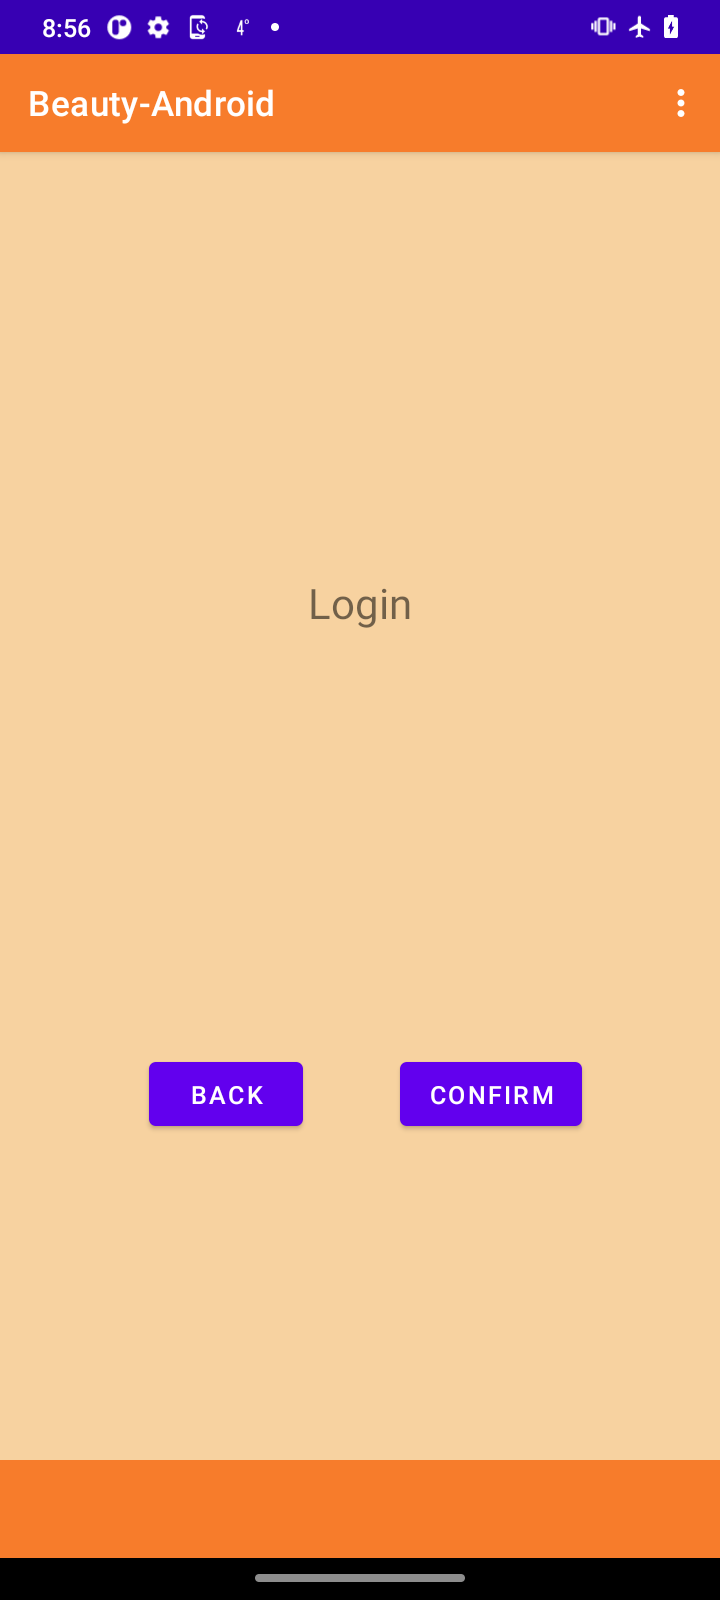
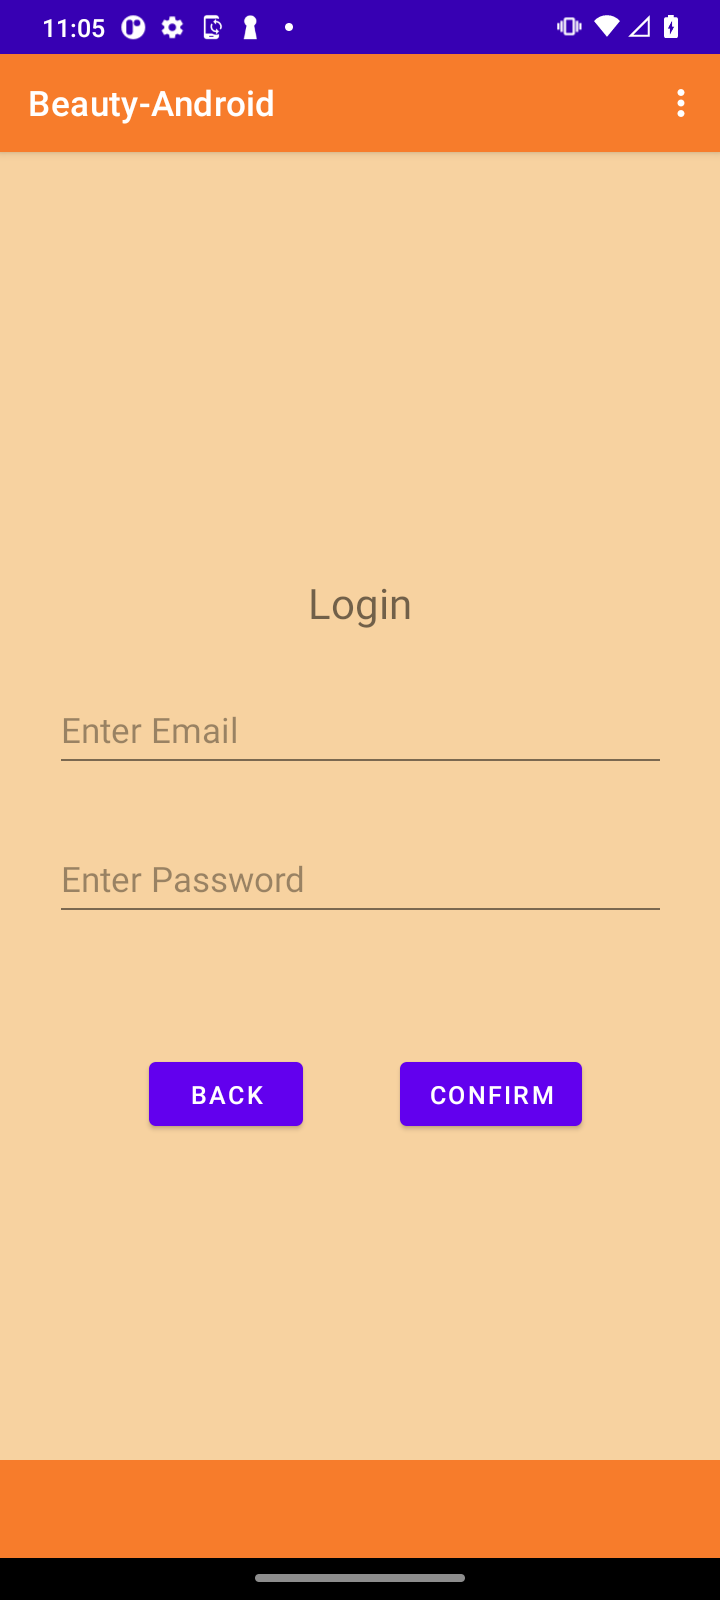
Registration screen design completed
User infos written to Firestore database. UsefInfo class deleted as not used anymore. Screenshots updated

diff --git a/app/src/main/java/com/example/beautyandroid/FragmentRegister.java b/app/src/main/java/com/example/beautyandroid/FragmentRegister.java
@@ -1,3 +1,21 @@
+//
+//  FragmentRegister.java
+//
+//  Created by Mathieu Delehaye on 1/12/2022.
+//
+//  BeautyAndroid: An Android app to order and recycle cosmetics.
+//
+//  Copyright © 2022 Mathieu Delehaye. All rights reserved.
+//
+//
+//  This program is free software: you can redistribute it and/or modify it under the terms of the GNU Affero General Public License as published by
+//  the Free Software Foundation, either version 3 of the License, or (at your option) any later version.
+//
+//  This program is distributed in the hope that it will be useful, but WITHOUT ANY WARRANTY; without even the implied warranty of MERCHANTABILITY or FITNESS
+//  FOR A PARTICULAR PURPOSE. See the GNU Affero General Public License for more details.
+//
+//  You should have received a copy of the GNU Affero General Public License along with this program. If not, see <https://www.gnu.org/licenses/>.
+
 package com.beautyorder.androidclient;
 
 import android.os.Bundle;
@@ -14,16 +32,31 @@ import androidx.fragment.app.Fragment;
 import androidx.navigation.fragment.NavHostFragment;
 import com.beautyorder.androidclient.databinding.FragmentRegisterBinding;
 import com.google.android.gms.tasks.OnCompleteListener;
+import com.google.android.gms.tasks.OnFailureListener;
+import com.google.android.gms.tasks.OnSuccessListener;
 import com.google.android.gms.tasks.Task;
 import com.google.firebase.auth.AuthResult;
 import com.google.firebase.auth.FirebaseAuth;
+import com.google.firebase.auth.FirebaseUser;
+import com.google.firebase.firestore.FirebaseFirestore;
+
+import java.util.HashMap;
+import java.util.Map;
 
 public class FragmentRegister extends Fragment {
     private FragmentRegisterBinding binding;
 
-    private EditText email;
-    private EditText password;
+    private EditText mFirstName;
+    private EditText mLastName;
+    private EditText mAddress;
+    private EditText mCity;
+    private EditText mPostCode;
+    private EditText mEmail;
+    private EditText mPassword;
+    private EditText mRepeatedPassword;
+
     private FirebaseAuth mAuth;
+    private FirebaseFirestore mDatabase;
 
     boolean isEmail(EditText text) {
         CharSequence email = text.getText().toString();
@@ -50,9 +83,17 @@ public class FragmentRegister extends Fragment {
     public void onViewCreated(@NonNull View view, Bundle savedInstanceState) {
         super.onViewCreated(view, savedInstanceState);
 
-        email = view.findViewById(R.id.register_email);
-        password = view.findViewById(R.id.register_password);
+        mFirstName = view.findViewById(R.id.register_first_name);
+        mLastName = view.findViewById(R.id.register_last_name);
+        mAddress = view.findViewById(R.id.register_address);
+        mCity = view.findViewById(R.id.register_city);
+        mPostCode = view.findViewById(R.id.register_post_code);
+        mEmail = view.findViewById(R.id.register_email);
+        mPassword = view.findViewById(R.id.register_password);
+        mRepeatedPassword = view.findViewById(R.id.register_repeat_password);
+
         mAuth = FirebaseAuth.getInstance();
+        mDatabase = FirebaseFirestore.getInstance();
 
         binding.backRegister.setOnClickListener(new View.OnClickListener() {
             @Override
@@ -68,21 +109,61 @@ public class FragmentRegister extends Fragment {
 
                 Boolean navigate = true;
 
-                if (isEmail(email) == false) {
-                    email.setError("Enter valid email!");
+                if (isEmpty(mFirstName)) {
+                    mFirstName.setError("First name is required!");
                     navigate = false;
                 }
 
-                if (isEmpty(password)) {
-                    password.setError("Password is required!");
+                if (isEmpty(mLastName)) {
+                    mLastName.setError("Last name is required!");
                     navigate = false;
+                }
+
+                if (isEmpty(mAddress)) {
+                    mAddress.setError("Address is required!");
+                    navigate = false;
+                }
+
+                if (isEmpty(mCity)) {
+                    mCity.setError("City is required!");
+                    navigate = false;
+                }
+
+                if (isEmpty(mPostCode)) {
+                    mPostCode.setError("Post code is required!");
+                    navigate = false;
+                }
+
+                if (isEmail(mEmail) == false) {
+                    mEmail.setError("Enter valid email!");
+                    navigate = false;
+                }
+
+                if (isEmpty(mPassword)) {
+                    mPassword.setError("Password is required!");
+                    navigate = false;
+                }
+
+                if (isEmpty(mRepeatedPassword)) {
+                    mRepeatedPassword.setError("Password is required!");
+                    navigate = false;
+                } else {
+
+                    String passwordText = mPassword.getText().toString();
+                    String repeatedPasswordText = mRepeatedPassword.getText().toString();
+
+                    if (!repeatedPasswordText.equals(passwordText)) {
+                        mRepeatedPassword.setError("The two passwords are different!");
+                        navigate = false;
+                    }
                 }
 
                 if (navigate) {
 
-                    String emailText = email.getText().toString();
-                    String passwordText = password.getText().toString();
+                    String emailText = mEmail.getText().toString();
+                    String passwordText = mPassword.getText().toString();
 
+                    // Create user
                     mAuth.createUserWithEmailAndPassword(emailText, passwordText)
                         .addOnCompleteListener(new OnCompleteListener<AuthResult>() {
                             @Override
@@ -91,6 +172,32 @@ public class FragmentRegister extends Fragment {
                                     // Sign in success, update UI with the signed-in user's information
                                     Log.d("BeautyOrder", "createUserWithEmail:success");
 
+                                    FirebaseUser user = mAuth.getCurrentUser();
+
+                                    // Add user infos to the database
+                                    Map<String, Object> userInfo = new HashMap<>();
+                                    userInfo.put("first_name", mFirstName.getText().toString());
+                                    userInfo.put("last_name", mLastName.getText().toString());
+                                    userInfo.put("address", mAddress.getText().toString());
+                                    userInfo.put("city", mCity.getText().toString());
+                                    userInfo.put("post_code", mPostCode.getText().toString());
+
+                                    mDatabase.collection("userInfos").document(emailText)
+                                        .set(userInfo)
+                                        .addOnSuccessListener(new OnSuccessListener<Void>() {
+                                            @Override
+                                            public void onSuccess(Void aVoid) {
+                                                Log.d("BeautyOrder", "DocumentSnapshot successfully written!");
+                                            }
+                                        })
+                                        .addOnFailureListener(new OnFailureListener() {
+                                            @Override
+                                            public void onFailure(@NonNull Exception e) {
+                                                Log.w("BeautyOrder", "Error writing document", e);
+                                            }
+                                        });
+
+                                    // Navigate to the next fragment
                                     NavHostFragment.findNavController(FragmentRegister.this)
                                         .navigate(R.id.action_RegisterFragment_to_MapFragment);
                                 } else {
